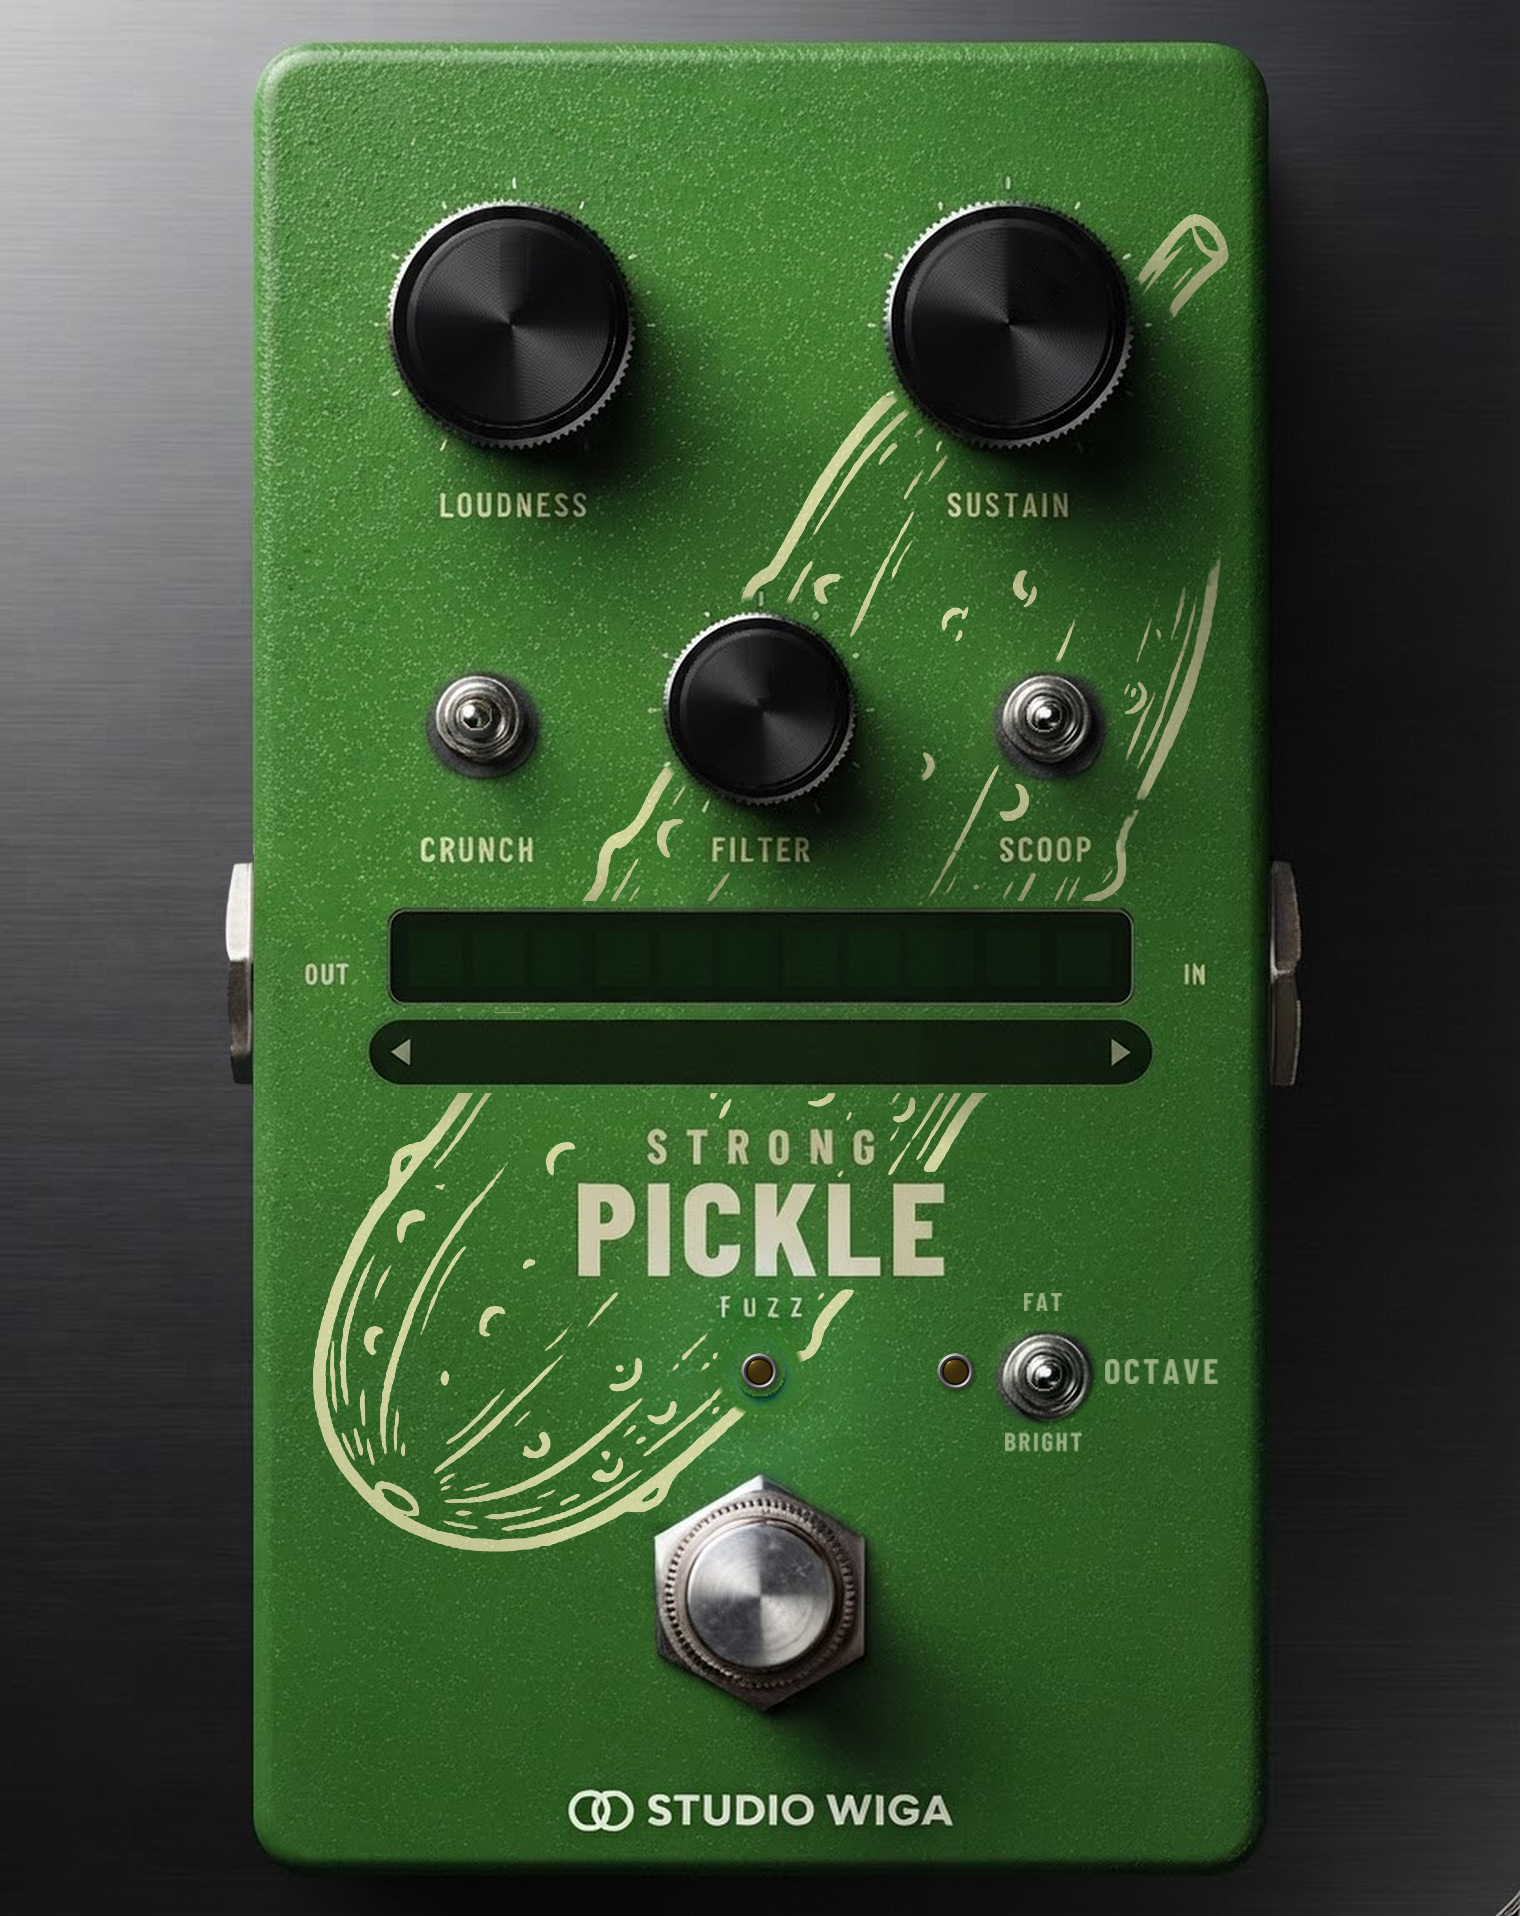
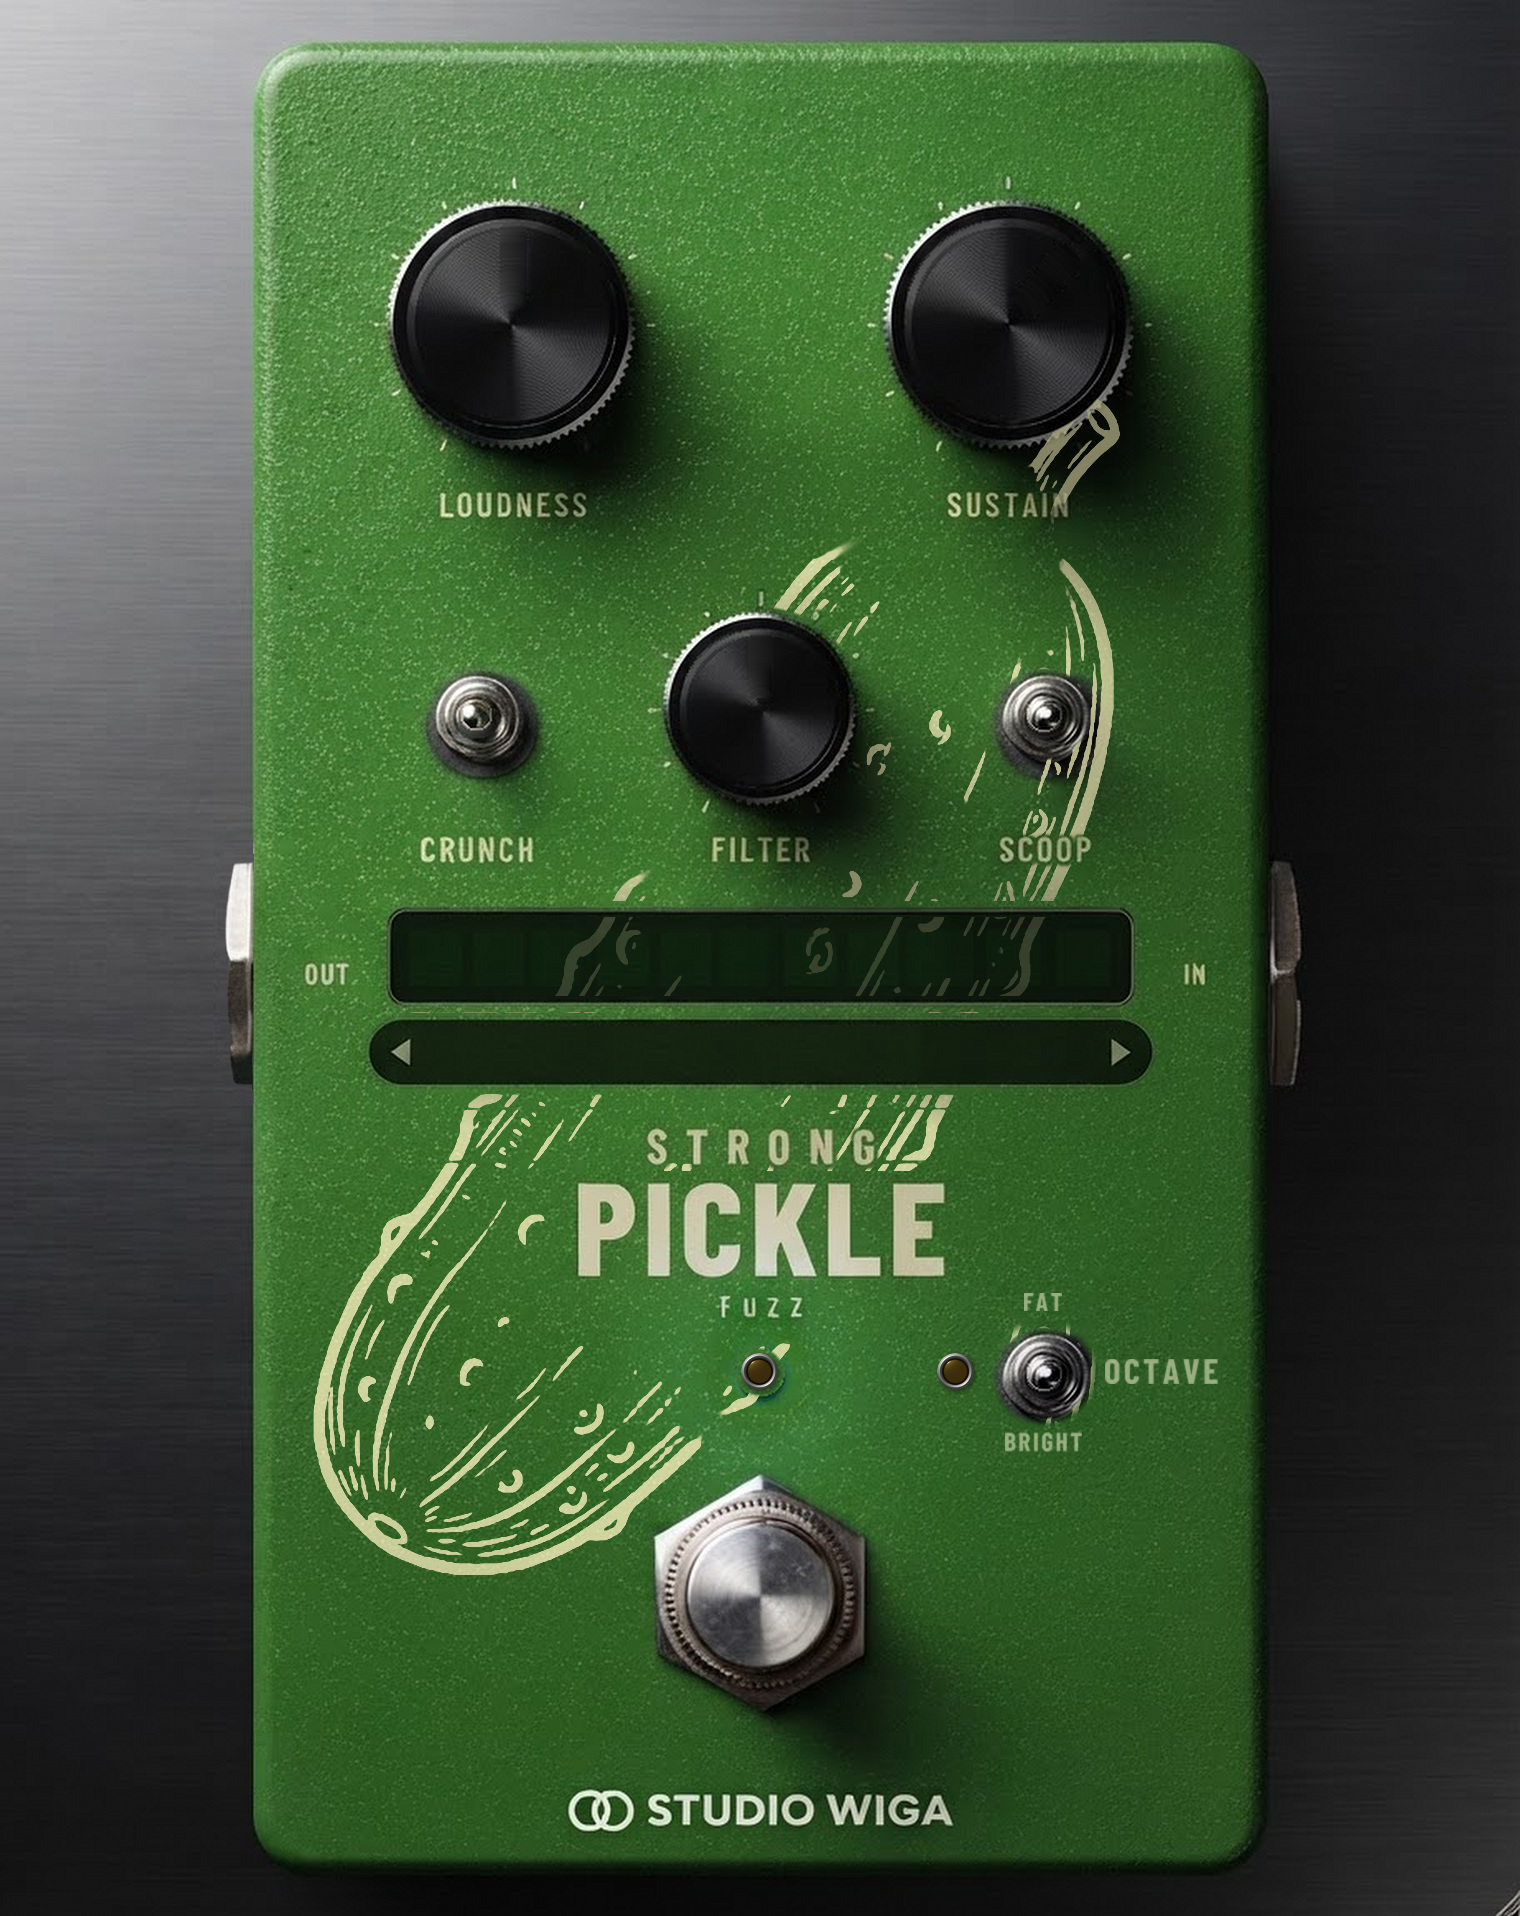
Apercu (non valide) : motif complet (traits dans l'ecran et la barre de presets, zones reservees resserrees), option reduite
Claude-Session: https://claude.ai/code/session_01M5BvnKD25x5sTgnxyi1aHz

diff --git a/tools/make_background.py b/tools/make_background.py
@@ -244,10 +244,46 @@ if os.path.exists(MOTIF):
     hP, wP = Mph.shape[:2]
     bgP = cv2.warpAffine(img, P2R, (wP, hP), flags=cv2.INTER_AREA | cv2.WARP_INVERSE_MAP)
     Rp, Gp, Bp = Mph[..., 0], Mph[..., 1], Mph[..., 2]
-    cream = np.clip((Rp - bgP[..., 0] - 30.0) / 70.0, 0, 1) * np.clip((45.0 - (Gp - Rp)) / 20.0, 0, 1)
-    cream *= np.clip((bgP[..., 1] - bgP[..., 0] - 25.0) / 20.0, 0, 1)     # seulement sur la peinture verte du fond
+    cream = np.clip((Rp - bgP[..., 0] - 18.0) / 55.0, 0, 1) * np.clip((50.0 - (Gp - Rp)) / 20.0, 0, 1)
+    cream *= np.clip((bgP[..., 1] - bgP[..., 0] - 8.0) / 14.0, 0, 1)      # seulement sur la peinture verte du fond (ombres comprises)
     Hb, Wb = img.shape[:2]
-    al = cv2.warpAffine(cream, P2R, (Wb, Hb), flags=cv2.INTER_CUBIC)
+    # dans l'ecran et la barre de presets (cadres semi-transparents) le trait se voit, assombri : on reporte
+    # l'ecart du visuel au fond (sans les textes du visuel, plus clairs)
+    dP = Mph - bgP
+    txt = cv2.dilate((Rp > 118).astype(np.uint8), np.ones((5, 5), np.uint8)).astype(bool)
+    lineb = np.clip((dP[..., 0] - 7.0) / 22.0, 0, 1) * np.clip((40.0 - (Gp - Rp)) / 20.0, 0, 1) * (~txt)
+    boxP = np.zeros((hP, wP), np.float32)
+    for (bx_, by_, bw_, bh_) in (STATUS_BOX, PRESET_BOX):
+        q = cv2.invertAffineTransform(P2R)
+        for (u0, v0, u1, v1) in [(U(bx_) * PX + 3, U(by_) * PX + 3, U(bx_ + bw_) * PX - 3, U(by_ + bh_) * PX - 3)]:
+            a0 = q @ np.array([u0, v0, 1.0]); a1 = q @ np.array([u1, v1, 1.0])
+            boxP[int(a0[1]):int(a1[1]), int(a0[0]):int(a1[0])] = 1.0
+    # trait complet : sur la peinture + dans les cadres (renforce) : la reduction du dessin ne laisse pas de trous
+    aP = np.maximum(cream * (1 - boxP), np.clip(lineb * boxP * 1.8, 0, 1))
+    # parties du dessin cachees sur le visuel (potards, inverseurs, LED, footswitch, etiquettes, textes) : une fois le
+    # dessin reduit et descendu, elles tomberaient sur la peinture -> le trait y est prolonge (inpainting du trait)
+    yyP, xxP = np.mgrid[0:hP, 0:wP].astype(np.float32)
+    qi = cv2.invertAffineTransform(P2R); sP = 1.0 / P2R[0, 0]
+    occP = np.zeros((hP, wP), np.uint8)
+    def _occ(cx, cy, r):
+        global occP
+        c = qi @ np.array([cx, cy, 1.0]); occP |= (np.hypot(xxP - c[0], yyP - c[1]) < r * sP).astype(np.uint8)
+    for (cx, cy, R_) in KNOBS: _occ(U(cx) * PX, U(cy) * PX, U(R_) * PX * 1.08)
+    for (cx, cy) in TOGGLES: _occ(U(cx) * PX, U(cy) * PX, 46)
+    _occ(U(LED[0]) * PX, U(LED[1]) * PX, 26)
+    _occ(U(FOOT[0]) * PX, U(FOOT[1]) * PX, U(FOOT_R) * PX * 1.22)
+    crP = ((bgP[..., 0] > 105) & ((bgP[..., 1] - bgP[..., 0]) < 45) & ((bgP[..., 0] - bgP[..., 2]) > 8)).astype(np.uint8)
+    occP |= cv2.dilate(crP, np.ones((5, 5), np.uint8))
+    occP |= (txt & (boxP > 0)).astype(np.uint8)
+    a8 = (np.clip(aP, 0, 1) * 255).astype(np.uint8); a8[occP > 0] = 0
+    aP = cv2.inpaint(a8, occP, 4, cv2.INPAINT_TELEA).astype(np.float32) / 255.0
+    al = cv2.warpAffine(aP, P2R, (Wb, Hb), flags=cv2.INTER_CUBIC)
+    # v1.4.1 : cornichon un peu plus petit et un peu plus bas (demande) : mise a l'echelle autour de son centre
+    MOTIF_SCALE, MOTIF_DY = float(os.environ.get('MOTIF_SCALE', 0.88)), float(os.environ.get('MOTIF_DY', 12.0)) * PX           # echelle autour du coin bas gauche du dessin, puis descente de 12 unites
+    ys_, xs_ = np.where(al > 0.3)
+    mcx, mcy = float(np.percentile(xs_, 0.5)), float(np.percentile(ys_, 99.5))
+    Tm = np.array([[MOTIF_SCALE, 0, mcx - MOTIF_SCALE * mcx], [0, MOTIF_SCALE, mcy - MOTIF_SCALE * mcy + MOTIF_DY]], np.float64)
+    al = cv2.warpAffine(al, Tm, (Wb, Hb), flags=cv2.INTER_CUBIC)
     al = cv2.GaussianBlur(np.clip(al, 0, 1), (0, 0), 1.0)
     al = np.clip((al - 0.36) / 0.28, 0, 1); al = al * al * (3 - 2 * al)     # contour net (epaisseur du trait du visuel)
     yyb, xxb = np.mgrid[0:Hb, 0:Wb].astype(np.float32)
@@ -255,22 +291,35 @@ if os.path.exists(MOTIF):
     def _hole(cx, cy, r, soft=6.0):
         global keep
         keep *= np.clip((np.hypot(xxb - cx, yyb - cy) - r) / soft, 0, 1)
-    for (cx, cy, R) in KNOBS: _hole(U(cx) * PX, U(cy) * PX, U(R) * PX * 1.10)
-    for (cx, cy) in TOGGLES: _hole(U(cx) * PX, U(cy) * PX, 52)
-    _hole(U(LED[0]) * PX, U(LED[1]) * PX, 40)
-    _hole(U(FOOT[0]) * PX, U(FOOT[1]) * PX, U(FOOT_R) * PX * 1.28)
-    for (bx_, by_, bw_, bh_) in (STATUS_BOX, PRESET_BOX):
+    for (cx, cy, R) in KNOBS: _hole(U(cx) * PX, U(cy) * PX, U(R) * PX * 1.02, 3.0)
+    for (cx, cy) in TOGGLES: _hole(U(cx) * PX, U(cy) * PX, 44, 3.0)
+    _hole(U(LED[0]) * PX, U(LED[1]) * PX, 22, 3.0)
+    _hole(U(FOOT[0]) * PX, U(FOOT[1]) * PX, U(FOOT_R) * PX * 1.18, 3.0)
+    for (bx_, by_, bw_, bh_) in (STATUS_BOX, PRESET_BOX):                     # bord des cadres : pas de trait dessus
         x0_, y0_, x1_, y1_ = U(bx_) * PX - 8, U(by_) * PX - 8, U(bx_ + bw_) * PX + 8, U(by_ + bh_) * PX + 8
-        keep *= 1 - ((xxb > x0_) & (xxb < x1_) & (yyb > y0_) & (yyb < y1_)).astype(np.float32)
+        ring_ = ((xxb > x0_) & (xxb < x1_) & (yyb > y0_) & (yyb < y1_)) & ~((xxb > x0_ + 16) & (xxb < x1_ - 16) & (yyb > y0_ + 16) & (yyb < y1_ - 16))
+        keep *= 1 - ring_.astype(np.float32)
+    # le mot PICKLE (il s'allume) : le trait passe derriere, jamais entre les lettres
+    _bx, _by, _bw, _bh = 340.0 - 8, 706.0 - 4, 236.0 + 16, 64.0 + 8
+    keep *= 1 - ((xxb > U(_bx) * PX) & (xxb < U(_bx + _bw) * PX) & (yyb > U(_by) * PX) & (yyb < U(_by + _bh) * PX)).astype(np.float32)
+    # marge autour des lettres creme deja peintes (etiquettes, STRONG / PICKLE / FUZZ) : le trait ne les touche pas
+    _cr = ((img[..., 0] > 105) & ((img[..., 1] - img[..., 0]) < 45) & ((img[..., 0] - img[..., 2]) > 8)).astype(np.uint8)
+    _cr = cv2.morphologyEx(_cr, cv2.MORPH_OPEN, np.ones((2, 2), np.uint8))
+    keep *= 1 - cv2.GaussianBlur(cv2.dilate(_cr, np.ones((7, 7), np.uint8)).astype(np.float32), (0, 0), 1.2)
     al *= keep
     n_, lab_, st_, _ = cv2.connectedComponentsWithStats((al > 0.5).astype(np.uint8), 8)
-    small = np.zeros(n_, bool); small[1:] = st_[1:, 4] < 18                  # poussieres isolees
+    small = np.zeros(n_, bool); small[1:] = st_[1:, 4] < 10                  # poussieres isolees
     al *= ~cv2.dilate(small[lab_].astype(np.uint8), np.ones((3, 3), np.uint8)).astype(bool)
     inkm = np.array([200, 198, 152], np.float32)                               # creme du trait (mesure sur le visuel)
     grain_ = img - cv2.GaussianBlur(img, (0, 0), 3.0)
     shade = cv2.GaussianBlur(img.mean(-1), (0, 0), 60.0); shade = (shade / np.median(shade[keep > 0.5]))[..., None]
     ink_ = np.clip(inkm * np.clip(shade, 0.75, 1.15) + 0.4 * grain_, 0, 255)
-    img = img * (1 - 0.88 * al[..., None]) + ink_ * (0.88 * al[..., None])
+    boxB = np.zeros((Hb, Wb), np.float32)
+    for (bx_, by_, bw_, bh_) in (STATUS_BOX, PRESET_BOX):
+        boxB[int(U(by_) * PX):int(U(by_ + bh_) * PX), int(U(bx_) * PX):int(U(bx_ + bw_) * PX)] = 1.0
+    boxB = cv2.GaussianBlur(boxB, (0, 0), 1.5)[..., None]
+    op = 0.88 * (1 - boxB) + 0.30 * boxB                                     # dans les cadres semi-transparents : trait assombri
+    img = img * (1 - op * al[..., None]) + ink_ * (op * al[..., None])
     print('motif : %d px de trait' % int((al > 0.5).sum()))
 
 # ------------------------------------------------------------------ 7. « PICKLE » qui s'allume en vert quand l'effet est actif
